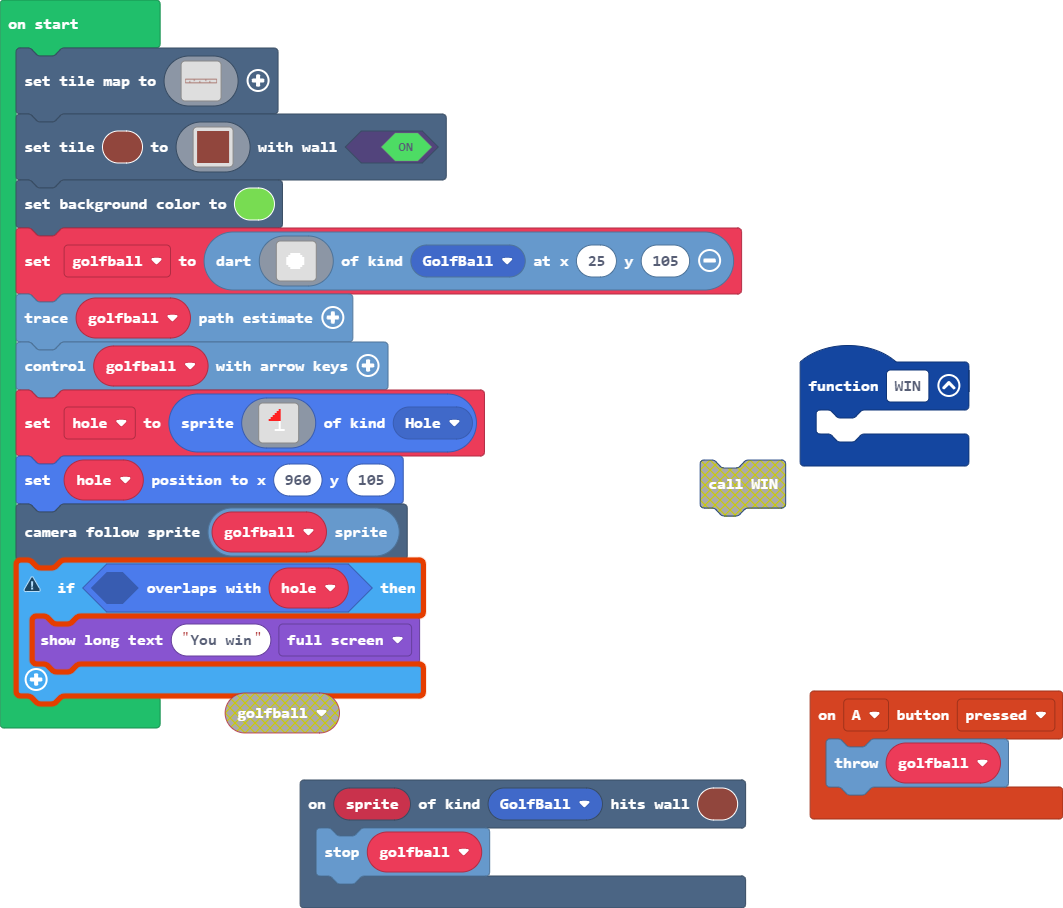
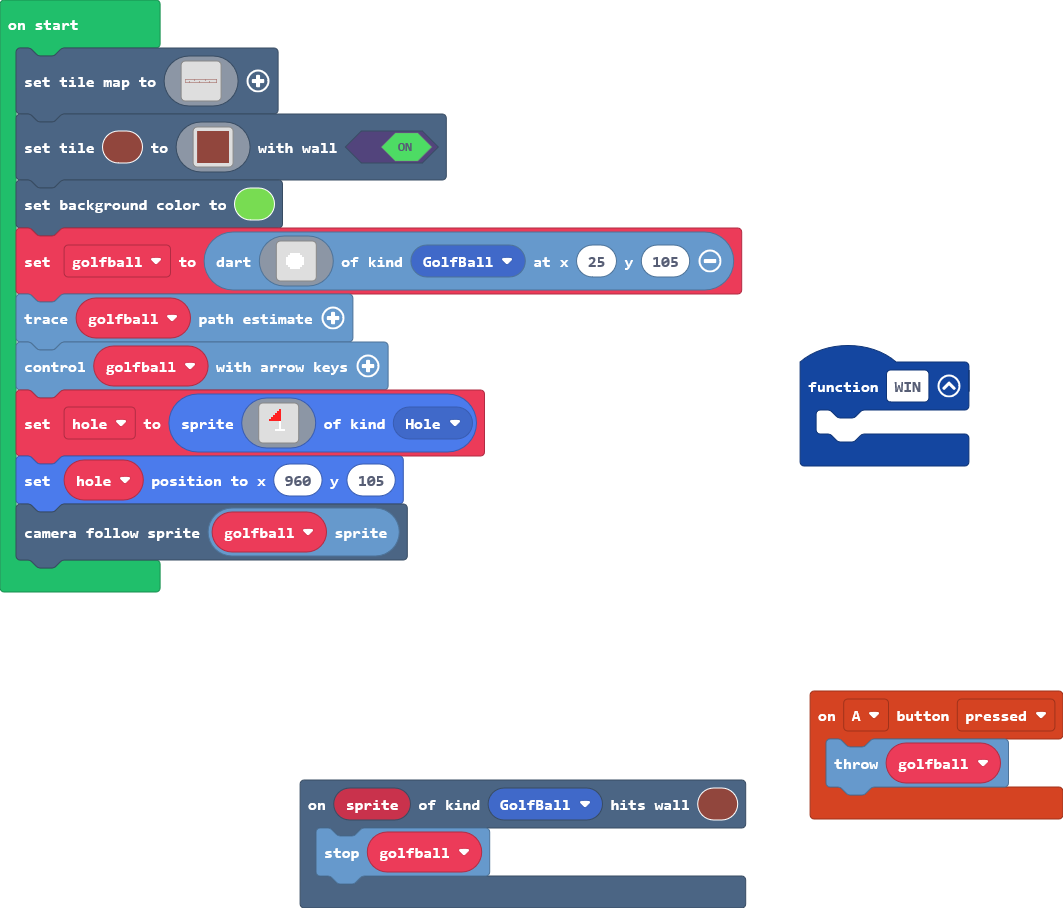
Update main.blocks, main.ts

diff --git a/main.ts b/main.ts
@@ -81,6 +81,3 @@ let hole = sprites.create(img`
     `, SpriteKind.Hole)
 hole.setPosition(960, 105)
 scene.cameraFollowSprite(golfball.sprite)
-if (null.overlapsWith(hole)) {
-    game.showLongText("You win", DialogLayout.Full)
-}
